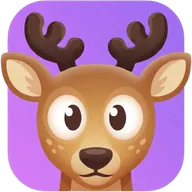
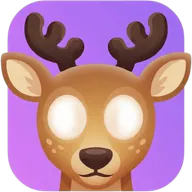
Let Hevalo's eyes follow the pointer, on phones too
The deer in Hevalo's icon now looks at the mouse, and on a touch screen
at the finger while it touches (scrolling included) and for a moment
after. With nothing to follow, the eyes return to the artwork's pose,
turned in towards each other.

- The icon's WebPs (everyday and Christmas) have the pupils painted out,
  filled from the white around them; the pupils and their highlights are
  drawn over the images at the places they have in the artwork, and each
  moves within the white of its eye, clipped to it.
- eyes.ts updates only icons on screen and only while the eyes move.
  Not with reduce motion; in forced colours the pupils keep their colour.

Claude-Session: https://claude.ai/code/session_01KBBHZvrbeW3Uqd7RrncA8Y

Changed region(s): [[0.5625, 0.5312, 0.6875, 0.6875], [0.3125, 0.5312, 0.4375, 0.6875]]

diff --git a/src/scripts/eyes.ts b/src/scripts/eyes.ts
@@ -1,0 +1,136 @@
+/**
+ * Hevalo's eyes follow the pointer: the mouse, or on a touch screen the
+ * finger, while it touches the screen and a moment after. With nothing to
+ * follow, the pupils return to where the artwork has them, turned in towards
+ * each other. They are drawn over the icon (HevaloIcon.astro) and move within
+ * the white of each eye, easing towards where they look.
+ *
+ * Only icons on screen are updated, and nothing runs while the eyes are
+ * still. Not used when the visitor prefers reduced motion.
+ */
+
+/** The white of an eye, and how far a pupil's centre may move from its centre (source pixels). */
+const EYE = { width: 58, height: 68 };
+const REACH = { x: 13, y: 10 };
+/** Where each pupil's centre is drawn in the artwork: left eye, right eye. */
+const REST = [
+  { x: 40.6, y: 36 },
+  { x: 19.3, y: 36.1 },
+];
+/** How long the eyes keep looking at where a finger left the screen (ms). */
+const LINGER = 1500;
+
+interface Pupil {
+  element: HTMLElement;
+  eye: HTMLElement;
+  rest: { x: number; y: number };
+  x: number;
+  y: number;
+}
+
+export function initEyes() {
+  const icons = [...document.querySelectorAll<HTMLElement>('[data-hevalo-eyes]')];
+  if (icons.length === 0 || window.matchMedia('(prefers-reduced-motion: reduce)').matches) return;
+
+  const pupils = new Map<HTMLElement, Pupil[]>();
+  for (const icon of icons) {
+    const list = [...icon.querySelectorAll<HTMLElement>('[data-pupil]')].map((element, index) => {
+      const rest = REST[index % 2];
+      return { element, eye: element.parentElement as HTMLElement, rest, x: rest.x, y: rest.y };
+    });
+    pupils.set(icon, list);
+  }
+
+  const visible = new Set<HTMLElement>();
+  let pointer: { x: number; y: number } | null = null;
+  let release: number | undefined;
+  let running = false;
+
+  const frame = () => {
+    let moving = false;
+    for (const icon of visible) {
+      for (const pupil of pupils.get(icon) ?? []) {
+        const box = pupil.eye.getBoundingClientRect();
+        if (box.width === 0) continue;
+        let target = pupil.rest;
+        if (pointer) {
+          // Towards the pointer, further the further away it is.
+          const dx = pointer.x - (box.left + box.width / 2);
+          const dy = pointer.y - (box.top + box.height / 2);
+          const distance = Math.hypot(dx, dy) || 1;
+          const reach = Math.min(1, distance / (box.width * 3 + 40));
+          target = {
+            x: EYE.width / 2 + (dx / distance) * REACH.x * reach,
+            y: EYE.height / 2 + (dy / distance) * REACH.y * reach,
+          };
+        }
+        pupil.x += (target.x - pupil.x) * 0.2;
+        pupil.y += (target.y - pupil.y) * 0.2;
+        if (Math.abs(target.x - pupil.x) + Math.abs(target.y - pupil.y) > 0.05) moving = true;
+        else {
+          pupil.x = target.x;
+          pupil.y = target.y;
+        }
+        const scale = box.width / EYE.width;
+        const x = (pupil.x - pupil.rest.x) * scale;
+        const y = (pupil.y - pupil.rest.y) * scale;
+        pupil.element.style.translate = Math.abs(x) + Math.abs(y) < 0.01 ? '' : `${x.toFixed(2)}px ${y.toFixed(2)}px`;
+      }
+    }
+    if (moving) requestAnimationFrame(frame);
+    else running = false;
+  };
+
+  const update = () => {
+    if (running || visible.size === 0) return;
+    running = true;
+    requestAnimationFrame(frame);
+  };
+
+  const look = (x: number, y: number) => {
+    window.clearTimeout(release);
+    pointer = { x, y };
+    update();
+  };
+
+  const rest = () => {
+    pointer = null;
+    update();
+  };
+
+  const observer = new IntersectionObserver((entries) => {
+    for (const entry of entries) {
+      if (entry.isIntersecting) visible.add(entry.target as HTMLElement);
+      else visible.delete(entry.target as HTMLElement);
+    }
+    update();
+  });
+  for (const icon of icons) observer.observe(icon);
+
+  // A mouse or pen.
+  window.addEventListener(
+    'pointermove',
+    (event) => {
+      if (event.pointerType !== 'touch') look(event.clientX, event.clientY);
+    },
+    { passive: true },
+  );
+  document.documentElement.addEventListener('pointerleave', rest);
+
+  // A finger: while it touches (scrolling included) and a moment after.
+  const touch = (event: TouchEvent) => {
+    const point = event.touches[0];
+    if (point) look(point.clientX, point.clientY);
+  };
+  window.addEventListener('touchstart', touch, { passive: true });
+  window.addEventListener('touchmove', touch, { passive: true });
+  const lift = () => {
+    window.clearTimeout(release);
+    release = window.setTimeout(rest, LINGER);
+  };
+  window.addEventListener('touchend', lift, { passive: true });
+  window.addEventListener('touchcancel', lift, { passive: true });
+
+  // The page moves under a still pointer when it scrolls.
+  window.addEventListener('scroll', () => pointer && update(), { passive: true });
+}

diff --git a/src/scripts/site.ts b/src/scripts/site.ts
@@ -1,4 +1,5 @@
 import { initCommandMenu } from './command';
+import { initEyes } from './eyes';
 import { initIntro } from './intro';
 import { initSound } from './sound';
 import { initText } from './text';
@@ -260,6 +261,7 @@ initLanguageSuggestion();
 initMotion();
 initText();
 initSound();
+initEyes();
 
 // Smooth scrolling, the custom cursor and magnetic buttons are for a mouse or
 // trackpad: loaded separately, so phones and tablets never download them.

diff --git a/README.md b/README.md
@@ -79,8 +79,8 @@ src/
                    llms-full.txt, the Markdown versions ([page].md.ts) and .well-known/security.txt
   scripts/         site.ts (header, site menu, section highlighting, scroll reveals, copy button,
                    local time, legal page tools), command.ts (quick navigation), motion.ts,
-                   intro.ts (opening screen), sound.ts, cursor.ts, magnetic.ts, smooth.ts,
-                   text.ts, language.ts, theme.ts and theme-init.js
+                   intro.ts (opening screen), eyes.ts (Hevalo's eyes), sound.ts, cursor.ts,
+                   magnetic.ts, smooth.ts, text.ts, language.ts, theme.ts and theme-init.js
   styles/          Fonts, design tokens and base styles
   site.ts          Facts that are the same in every language
 ```
@@ -129,6 +129,12 @@ src/
   served WebPs (`hevalo-96/192/288.webp`, `hevalo-christmas-96/192/288.webp`) are cropped to the same
   360 px box at (70, 64) in the 500 px sources, so the two line up; the Christmas deer's scarf hangs
   below it. Near-invisible pixels (alpha ≤ 8) are made fully transparent, and the WebPs are quality 80.
+  The deer's eyes follow the pointer ([`eyes.ts`](src/scripts/eyes.ts)): the mouse, or on a touch
+  screen the finger, while it touches and for a moment after. The served WebPs have the pupils
+  painted out (filled from the white around them), and the pupils, with their highlights, are drawn
+  over the images at the places they have in the artwork; each moves within the white of its eye and
+  returns to the artwork's pose, turned in, when there is nothing to follow. The two icons share the
+  same eyes. Not with *reduce motion*; in forced colours the pupils keep their colour.
 
 - **Fonts:** Latin text is set in Inter and Arabic script (Arabic, Sorani and Persian) in
   [Vazirmatn](https://github.com/rastikerdar/vazirmatn), both self-hosted variable fonts under the OFL.
